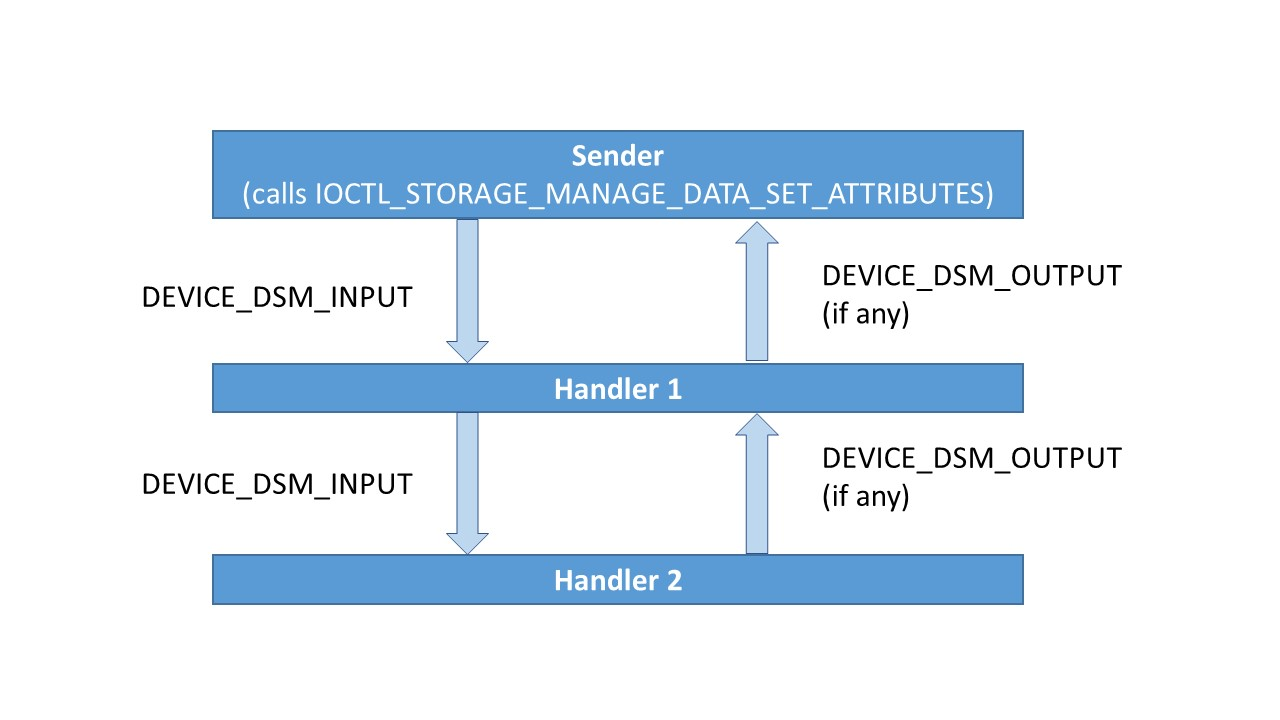
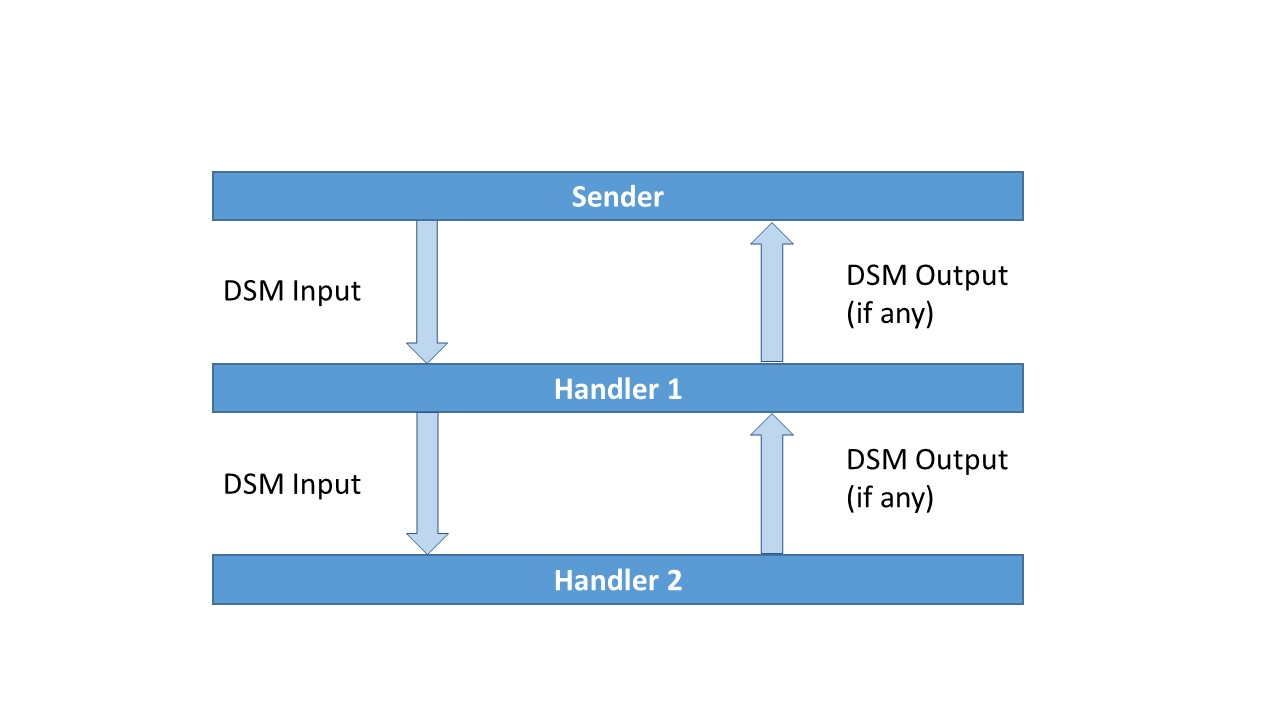
More DSM updates Another pass on conceptual pages Move DSM in toc Update images

Changed region(s): [[0.0938, 0.1833, 0.875, 0.5194], [0.5625, 0.5806, 0.875, 0.7639], [0.0938, 0.55, 0.375, 0.7639]]

diff --git a/windows-driver-docs-pr/storage/device-dsm-action-descriptions.md b/windows-driver-docs-pr/storage/device-dsm-action-descriptions.md
@@ -4,43 +4,41 @@ description: This page describes the DEVICE_DSM_ACTION constants that can be use
 ms.assetid: cc64c7ad-7d1c-45c7-b236-a43e57086f8d
 keywords: Storage Data Set Management Actions, Data Set Management Actions, DSM Actions
 ms.localizationpriority: medium
-ms.date: 08/15/2019
+ms.date: 08/20/2019
 ---
 
-# DEVICE_DSM_ACTION Definitions
+# DEVICE_DSM_ACTION Descriptions
 
-This page describes the DEVICE_DSM_ACTION constants that can be used to perform a data set management (DSM) action on a device's data-set attributes. See [Data Set Management Overview](data-set-management-overview.md) for information on how a DSM action is processed. The following diagram shows the structure of a DEVICE_DSM_ACTION constant, and the table below lists and describes each constant.
-
-![DEVICE_DSM_ACTION Constant](images/device_dsm_action_constant.jpg)
+This page describes the DEVICE_DSM_ACTION constants that can be used to perform a data set management (DSM) action on a device's data set. These constants are defined in *ntddstor.h*. See [Data Set Management Overview](data-set-management-overview.md) for information on how a DSM action is processed.
 
 | DEVICE_DSM_ACTION Constant | Description |
 | -------------------------- | ----------- |
 | **DeviceDsmAction_None** (0) | For structure initialization purposes only. |
 | **DeviceDsmAction_Trim** (1) | The driver will perform a trim operation. |
-| **DeviceDsmAction_Notification** (2 \| **DeviceDsmActionFlag_NonDestructive**) | The driver will perform a notification operation. For this action, the **ParameterBlockOffset** and **ParameterBlockLength** members of the [DEVICE_DSM_INPUT](https://docs.microsoft.com/windows-hardware/drivers/ddi/content/ntddstor/ns-ntddstor-_device_manage_data_set_attributes) structure specify the parameters of the notification operation. These parameters are formatted as a [DEVICE_DSM_NOTIFICATION_PARAMETERS](https://docs.microsoft.com/windows-hardware/drivers/ddi/content/ntddstor/ns-ntddstor-_device_dsm_notification_parameters) structure. Supported in Windows 7 and later versions of Windows. |
-| **DeviceDsmAction_OffloadRead** (3 \| **DeviceDsmActionFlag_NonDestructive**) | The driver performs an offload read operation. For this action, the **ParameterBlockOffset** and **ParameterBlockLength** members of the [DEVICE_DSM_INPUT](https://docs.microsoft.com/windows-hardware/drivers/ddi/content/ntddstor/ns-ntddstor-_device_manage_data_set_attributes) structure specify the parameters of the offload read operation. These parameters are formatted as a [DEVICE_DSM_OFFLOAD_READ_PARAMETERS](https://docs.microsoft.com/windows-hardware/drivers/ddi/content/ntddstor/ns-ntddstor-_device_dsm_offload_read_parameters) structure. Supported in Windows 8 and later versions of Windows. |
-| **DeviceDsmAction_OffloadWrite** (4) | The driver will perform an offload write operation. For this action, the **ParameterBlockOffset** and **ParameterBlockLength** members of the [DEVICE_DSM_INPUT](https://docs.microsoft.com/windows-hardware/drivers/ddi/content/ntddstor/ns-ntddstor-_device_manage_data_set_attributes) structure specify the parameters of the offload write operation. These parameters are formatted as a [DEVICE_DSM_OFFLOAD_WRITE_PARAMETERS](https://docs.microsoft.com/windows-hardware/drivers/ddi/content/ntddstor/ns-ntddstor-_device_dsm_offload_write_parameters) structure. Supported in Windows 8 and later versions of Windows. |
-| **DeviceDsmAction_Allocation** (5 \| **DeviceDsmActionFlag_NonDestructive**) | The driver will perform a logical block provisioning operation. The logical block range is specified in a single [DEVICE_DATA_SET_RANGE](https://docs.microsoft.com/windows-hardware/drivers/ddi/content/ntddstor/ns-ntddstor-_device_data_set_range) structure. Supported in Windows 8 and later versions of Windows. |
-| **DeviceDsmAction_Repair** (6 \| **DeviceDsmActionFlag_NonDestructive**) | The driver will perform a storage spaces repair operation. The logical block range is specified in a single [DEVICE_DATA_SET_RANGE](https://docs.microsoft.com/windows-hardware/drivers/ddi/content/ntddstor/ns-ntddstor-_device_data_set_range) structure. The number of repair copies is specified in a DEVICE_DATA_SET_REPAIR_PARAMETERS structure located in the input buffer as specified by the **ParameterBlockOffset** member of the [DEVICE_DSM_INPUT](https://docs.microsoft.com/windows-hardware/drivers/ddi/content/ntddstor/ns-ntddstor-_device_manage_data_set_attributes) structure. Supported in Windows 8 and later versions of Windows. |
-| **DeviceDsmAction_Scrub** (7 \| **DeviceDsmActionFlag_NonDestructive**) | The driver will perform a storage spaces scrub operation. The logical block range is specified in a single [DEVICE_DATA_SET_RANGE](https://docs.microsoft.com/windows-hardware/drivers/ddi/content/ntddstor/ns-ntddstor-_device_data_set_range) structure. Supported in Windows 8 and later versions of Windows. |
-| **DeviceDsmAction_DrtQuery** (8 \| **DeviceDsmActionFlag_NonDestructive**) | The driver will perform a query for the logical block range specified and checks if it is included in storage spaces dirty range tracking. The synchronization status of the range is returned in the **OperationStatus** member of the [DEVICE_DSM_INPUT_OUTPUT](https://docs.microsoft.com/windows-hardware/drivers/ddi/content/ntddstor/ns-ntddstor-_device_manage_data_set_attributes_output) structure. The logical block range is specified, on input, in a single [DEVICE_DATA_SET_RANGE](https://docs.microsoft.com/windows-hardware/drivers/ddi/content/ntddstor/ns-ntddstor-_device_data_set_range) structure. Supported in Windows 8 and later versions of Windows. |
-| **DeviceDsmAction_DrtClear** (9 \| **DeviceDsmActionFlag_NonDestructive**) | The driver will clear dirty range status for the for the logical block range specified. The logical block range is specified in a single [DEVICE_DATA_SET_RANGE](https://docs.microsoft.com/windows-hardware/drivers/ddi/content/ntddstor/ns-ntddstor-_device_data_set_range) structure. Supported in Windows 8 and later versions of Windows. |
-| **DeviceDsmAction_DrtDisable** (10 \| **DeviceDsmActionFlag_NonDestructive**) | The driver will disable dirty range tracking for the logical block range specified. The logical block range is specified in a single [DEVICE_DATA_SET_RANGE](https://docs.microsoft.com/windows-hardware/drivers/ddi/content/ntddstor/ns-ntddstor-_device_data_set_range) structure. Supported in Windows 8 and later versions of Windows. |
-| **DeviceDsmAction_TieringQuery** (11 \| **DeviceDsmActionFlag_NonDestructive**) |  |
-| **DeviceDsmAction_Map** (12 \| **DeviceDsmActionFlag_NonDestructive**) |  |
-| **DeviceDsmAction_RegenerateParity** (13 \| **DeviceDsmActionFlag_NonDestructive**) |  |
-| **DeviceDsmAction_NvCache_Change_Priority** (14 \| **DeviceDsmActionFlag_NonDestructive**) | The driver will change the caching priority of specified ranges of logical blocks. The new target priority is set in a [DEVICE_DSM_NVCACHE_CHANGE_PRIORITY_PARAMETERS](https://docs.microsoft.com/windows-hardware/drivers/ddi/content/ntddstor/ns-ntddstor-_device_dsm_nvcache_change_priority_parameters) structure which is located at **ParameterBlockOffset** in [DEVICE_DSM_INPUT](https://docs.microsoft.com/windows-hardware/drivers/ddi/content/ntddstor/ns-ntddstor-_device_manage_data_set_attributes). The logical block ranges to change priority for are given in one or more [DEVICE_DATA_SET_RANGE](https://docs.microsoft.com/windows-hardware/drivers/ddi/content/ntddstor/ns-ntddstor-_device_data_set_range) structures. Supported in Windows 8.1 and later versions of Windows. |
-| **DeviceDsmAction_NvCache_Evict** (15 \| **DeviceDsmActionFlag_NonDestructive**) | The driver will evict data from the caching medium. To evict all data, set the DEVICE_DSM_FLAG_ENTIRE_DATA_SET_RANGE flag in the **Flags** member of [DEVICE_DSM_INPUT](https://docs.microsoft.com/windows-hardware/drivers/ddi/content/ntddstor/ns-ntddstor-_device_manage_data_set_attributes) and do not include any [DEVICE_DATA_SET_RANGE](https://docs.microsoft.com/windows-hardware/drivers/ddi/content/ntddstor/ns-ntddstor-_device_data_set_range) structures. Specific logical block ranges to evict are given in one or more [DEVICE_DATA_SET_RANGE](https://docs.microsoft.com/windows-hardware/drivers/ddi/content/ntddstor/ns-ntddstor-_device_data_set_range) structures. The **DeviceDsmAction_NvCache_Evict** action is executed synchronously. No other actions are serviced until the evict action has either succeeded or failed. In order to limit its impact on applications using the device, each **DeviceDsmAction_NvCache_Evict** action issued should include relatively small data ranges. They should not exceed 10 MB and ideally be smaller than 2 MB. This will minimize the chance that user level applications will experience noticeable delays when accessing data on the device. Supported in Windows 8.1 and later versions of Windows. |
-| **DeviceDsmAction_TopologyIdQuery** (16 \| **DeviceDsmActionFlag_NonDestructive**) |  |
-| **DeviceDsmAction_GetPhysicalAddresses** (17 \| **DeviceDsmActionFlag_NonDestructive**) |  |
-| **DeviceDsmAction_ScopeRegen** (18 \| **DeviceDsmActionFlag_NonDestructive**) |  |
-| **DeviceDsmAction_ReportZones** (19 \| **DeviceDsmActionFlag_NonDestructive**) |  |
-| **DeviceDsmAction_OpenZone** (20 \| **DeviceDsmActionFlag_NonDestructive**) |  |
-| **DeviceDsmAction_FinishZone** (21 \| **DeviceDsmActionFlag_NonDestructive**) |  |
-| **DeviceDsmAction_CloseZone** (22 \| **DeviceDsmActionFlag_NonDestructive**) |  |
-| **DeviceDsmAction_ResetWritePointer** (23) |  |
-| **DeviceDsmAction_GetRangeErrorInfo** (24 \| **DeviceDsmActionFlag_NonDestructive**) |  |
-| **DeviceDsmAction_WriteZeroes** (25) |  |
-| **DeviceDsmAction_LostQuery** (26 \| **DeviceDsmActionFlag_NonDestructive**) |  |
-| **DeviceDsmAction_GetFreeSpace** (27 \| **DeviceDsmActionFlag_NonDestructive**) |  |
-| **DeviceDsmAction_ConversionQuery** (28 \| **DeviceDsmActionFlag_NonDestructive**) |  |
+| **DeviceDsmAction_Notification** (2 \| **DeviceDsmActionFlag_NonDestructive**) | The driver will perform a notification operation. For this action, the parameter block immediately following the [DEVICE_DSM_INPUT](https://docs.microsoft.com/windows-hardware/drivers/ddi/content/ntddstor/ns-ntddstor-_device_manage_data_set_attributes) structure is formatted as a [DEVICE_DSM_NOTIFICATION_PARAMETERS](https://docs.microsoft.com/windows-hardware/drivers/ddi/content/ntddstor/ns-ntddstor-_device_dsm_notification_parameters) structure. Supported in Windows 7 and later versions of Windows. |
+| **DeviceDsmAction_OffloadRead** (3 \| **DeviceDsmActionFlag_NonDestructive**) | The driver performs an offload read operation. For this action, the parameter block immediately following the [DEVICE_DSM_INPUT](https://docs.microsoft.com/windows-hardware/drivers/ddi/content/ntddstor/ns-ntddstor-_device_manage_data_set_attributes) structure is formatted as a [DEVICE_DSM_OFFLOAD_READ_PARAMETERS](https://docs.microsoft.com/windows-hardware/drivers/ddi/content/ntddstor/ns-ntddstor-_device_dsm_offload_read_parameters) structure. Supported in Windows 8 and later versions of Windows. |
+| **DeviceDsmAction_OffloadWrite** (4) | The driver will perform an offload write operation. For this action, the parameter block immediately following the [DEVICE_DSM_INPUT](https://docs.microsoft.com/windows-hardware/drivers/ddi/content/ntddstor/ns-ntddstor-_device_manage_data_set_attributes) structure is formatted as a [DEVICE_DSM_OFFLOAD_WRITE_PARAMETERS](https://docs.microsoft.com/windows-hardware/drivers/ddi/content/ntddstor/ns-ntddstor-_device_dsm_offload_write_parameters) structure. Supported in Windows 8 and later versions of Windows. |
+| **DeviceDsmAction_Allocation** (5 \| **DeviceDsmActionFlag_NonDestructive**) | The driver will perform a logical block provisioning operation. The logical block range is specified in a single [DEVICE_DSM_RANGE](https://docs.microsoft.com/windows-hardware/drivers/ddi/content/ntddstor/ns-ntddstor-_device_data_set_range) structure. Supported in Windows 8 and later versions of Windows. |
+| **DeviceDsmAction_Repair** (6 \| **DeviceDsmActionFlag_NonDestructive**) | For internal use only. |
+| **DeviceDsmAction_Scrub** (7 \| **DeviceDsmActionFlag_NonDestructive**) | For internal use only. |
+| **DeviceDsmAction_DrtQuery** (8 \| **DeviceDsmActionFlag_NonDestructive**) | For internal use only. |
+| **DeviceDsmAction_DrtClear** (9 \| **DeviceDsmActionFlag_NonDestructive**) | For internal use only. |
+| **DeviceDsmAction_DrtDisable** (10 \| **DeviceDsmActionFlag_NonDestructive**) | For internal use only. |
+| **DeviceDsmAction_TieringQuery** (11 \| **DeviceDsmActionFlag_NonDestructive**) | For internal use only. |
+| **DeviceDsmAction_Map** (12 \| **DeviceDsmActionFlag_NonDestructive**) | For internal use only. |
+| **DeviceDsmAction_RegenerateParity** (13 \| **DeviceDsmActionFlag_NonDestructive**) | For internal use only. |
+| **DeviceDsmAction_NvCache_Change_Priority** (14 \| **DeviceDsmActionFlag_NonDestructive**) | The driver will change the caching priority of specified ranges of logical blocks. The new target priority is set in a [DEVICE_DSM_NVCACHE_CHANGE_PRIORITY_PARAMETERS](https://docs.microsoft.com/windows-hardware/drivers/ddi/content/ntddstor/ns-ntddstor-_device_dsm_nvcache_change_priority_parameters) structure which is located in the parameter block immediately following the [DEVICE_DSM_INPUT](https://docs.microsoft.com/windows-hardware/drivers/ddi/content/ntddstor/ns-ntddstor-_device_manage_data_set_attributes) structure. The logical block ranges for which to change priority are given in one or more [DEVICE_DSM_RANGE](https://docs.microsoft.com/windows-hardware/drivers/ddi/content/ntddstor/ns-ntddstor-_device_data_set_range) structures. Supported in Windows 8.1 and later versions of Windows. |
+| **DeviceDsmAction_NvCache_Evict** (15 \| **DeviceDsmActionFlag_NonDestructive**) | The driver will evict data from the caching medium. To evict all data, set the DEVICE_DSM_FLAG_ENTIRE_DATA_SET_RANGE flag in the **Flags** member of [DEVICE_DSM_INPUT](https://docs.microsoft.com/windows-hardware/drivers/ddi/content/ntddstor/ns-ntddstor-_device_manage_data_set_attributes) and do not include any [DEVICE_DSM_RANGE](https://docs.microsoft.com/windows-hardware/drivers/ddi/content/ntddstor/ns-ntddstor-_device_data_set_range) structures. Specific logical block ranges to evict are given in one or more [DEVICE_DSM_RANGE](https://docs.microsoft.com/windows-hardware/drivers/ddi/content/ntddstor/ns-ntddstor-_device_data_set_range) structures. The **DeviceDsmAction_NvCache_Evict** action is executed synchronously. No other actions are serviced until the evict action has either succeeded or failed. In order to limit its impact on applications using the device, each **DeviceDsmAction_NvCache_Evict** action issued should include relatively small data ranges. They should not exceed 10 MB and ideally be smaller than 2 MB. This will minimize the chance that user level applications will experience noticeable delays when accessing data on the device. Supported in Windows 8.1 and later versions of Windows. |
+| **DeviceDsmAction_TopologyIdQuery** (16 \| **DeviceDsmActionFlag_NonDestructive**) | For internal use only. |
+| **DeviceDsmAction_GetPhysicalAddresses** (17 \| **DeviceDsmActionFlag_NonDestructive**) | The driver will return the physical address ranges that correspond to one or more logical block ranges. This action is only supported on persistent memory disks. The logical block ranges are specified as a series of [DEVICE_DSM_RANGE](https://docs.microsoft.com/windows-hardware/drivers/ddi/content/ntddstor/ns-ntddstor-_device_data_set_range) structures immediately following the DEVICE_DSM_INPUT structure. The output consists of a [DEVICE_DSM_OUTPUT](https://docs.microsoft.com/windows-hardware/drivers/ddi/content/ntddstor/ns-ntddstor-_device_manage_data_set_attributes_output) structure, followed by padding and then a [DEVICE_DSM_PHYSICAL_ADDRESSES_OUTPUT](https://docs.microsoft.com/windows-hardware/drivers/ddi/content/ntddstor/ns-ntddstor-_device_dsm_physical_addresses_output) structure with the physical address ranges requested in the output block. Each physical address range is returned in a [DEVICE_STORAGE_ADDRESS_RANGE](https://docs.microsoft.com/windows-hardware/drivers/ddi/content/ntddstor/ns-ntddstor-_device_storag_address_range) structure. If the output buffer isn’t large enough to hold all the data, the DSM returns STATUS_BUFFER_OVERFLOW and the **TotalNumberOfRanges** field of the DEVICE_DSM_PHYSICAL_ADDRESSES_OUTPUT structure contains the number of DEVICE_STORAGE_ADDRESS_RANGE elements needed to satisfy the request. Any physical address ranges that contain a memory error will have DEVICE_DSM_PHYSICAL_ADDRESS_HAS_MEMORY_ERROR as its address. Applications can map the returned physical address ranges to the input logical block ranges by keeping track of the length of each returned physical address range. Note that a single logical block range can correspond to many physical address ranges. If DEVICE_DSM_FLAG_PHYSICAL_ADDRESSES_OMIT_TOTAL_RANGES is set in the **Flags** field of the [DEVICE_DSM_INPUT](https://docs.microsoft.com/windows-hardware/drivers/ddi/content/ntddstor/ns-ntddstor-_device_manage_data_set_attributes) structure, then the driver will not compute **TotalNumberOfRanges**. This is a performance optimization for callers that don’t need to know the total number of ranges. |
+| **DeviceDsmAction_ScopeRegen** (18 \| **DeviceDsmActionFlag_NonDestructive**) | For internal use only. |
+| **DeviceDsmAction_ReportZones** (19 \| **DeviceDsmActionFlag_NonDestructive**) | For internal use only. |
+| **DeviceDsmAction_OpenZone** (20 \| **DeviceDsmActionFlag_NonDestructive**) | For internal use only. |
+| **DeviceDsmAction_FinishZone** (21 \| **DeviceDsmActionFlag_NonDestructive**) | For internal use only. |
+| **DeviceDsmAction_CloseZone** (22 \| **DeviceDsmActionFlag_NonDestructive**) | For internal use only. |
+| **DeviceDsmAction_ResetWritePointer** (23) | For internal use only. |
+| **DeviceDsmAction_GetRangeErrorInfo** (24 \| **DeviceDsmActionFlag_NonDestructive**) | The driver will return information about whether one or more logical block ranges contain any media errors. This is only supported on persistent memory disks. The logical block ranges are specified as a series of [DEVICE_DSM_RANGE](https://docs.microsoft.com/windows-hardware/drivers/ddi/content/ntddstor/ns-ntddstor-_device_data_set_range) structures immediately following the [DEVICE_DSM_INPUT](https://docs.microsoft.com/windows-hardware/drivers/ddi/content/ntddstor/ns-ntddstor-_device_manage_data_set_attributes) structure. The output consists of a [DEVICE_DSM_OUTPUT](https://docs.microsoft.com/windows-hardware/drivers/ddi/content/ntddstor/ns-ntddstor-_device_manage_data_set_attributes_output) structure, followed by padding and by a [DEVICE_DSM_RANGE_ERROR_OUTPUT](https://docs.microsoft.com/windows-hardware/drivers/ddi/content/ntddstor/ns-ntddstor-_device_dsm_range_error_output)) structure which holds an array of [DEVICE_STORAGE_RANGE_ATTRIBUTES](https://docs.microsoft.com/windows-hardware/drivers/ddi/content/ntddstor/ns-ntddstor-_device_storage_range_attributes). If the output buffer isn’t large enough to hold all the data, the DSM returns STATUS_BUFFER_OVERFLOW and the **TotalNumberOfRanges** field of the DEVICE_DSM_RANGE_ERROR_OUTPUT structure contains the number of DEVICE_STORAGE_RANGE_ATTRIBUTES elements needed to satisfy the request. Each DEVICE_STORAGE_RANGE_ATTRIBUTES structure contains an **IsRangeBad** field. The driver sets that field to 1 when the logical block range contains a media error. If there are no media errors in any of the requested ranges, the driver sets DEVICE_STORAGE_NO_ERRORS in the Flags field of DEVICE_DSM_RANGE_ERROR_OUTPUT. The elements of the DEVICE_STORAGE_RANGE_ATTRIBUTES array are sorted so that their order corresponds to the order of the input ranges. For example, if the first input range was broken into 3 output ranges, those will be the first 3 ranges in the array. The caller can learn which output ranges correspond to an input range by keeping track of the length of the output ranges. |
+| **DeviceDsmAction_WriteZeroes** (25) | For internal use only. |
+| **DeviceDsmAction_LostQuery** (26 \| **DeviceDsmActionFlag_NonDestructive**) | For internal use only. |
+| **DeviceDsmAction_GetFreeSpace** (27 \| **DeviceDsmActionFlag_NonDestructive**) | For internal use only. |
+| **DeviceDsmAction_ConversionQuery** (28 \| **DeviceDsmActionFlag_NonDestructive**) | For internal use only. |

diff --git a/windows-driver-docs-pr/storage/data-set-management-overview.md b/windows-driver-docs-pr/storage/data-set-management-overview.md
@@ -1,35 +1,51 @@
 ---
-title: Data Set Management Overview
+title: Data Set Management (DSM) Overview
 description: Management actions can be performed on a device's data-set attributes as data set management (DSM) actions.:"?ASQ
 ms.assetid: cc64c7ad-7d1c-45c7-b236-a43e57086f8d
 keywords: Storage Data Set Management Actions, Data Set Management Actions, DSM Actions
 ms.localizationpriority: medium
-ms.date: 08/15/2019
+ms.date: 08/20/2019
 ---
 
-# Data Set Management Overview
+# Data Set Management (DSM) Overview
 
-Management actions can be performed on a device's data-set attributes as data set management (DSM) actions. DSM actions are defined by Microsoft. This functionality is available starting with Windows 7.
+Starting with Windows 7, drivers can perform management actions on a device's data set. DSM actions are defined by Microsoft.
 
-Specifically, a DEVICE_DSM_ACTION constant, defined in *ntddstor.h*, is used to specify the action to perform along with any action-specific flags. See [DEVICE_DSM_ACTION Descriptions](device-dsm-action-descriptions.md) for descriptions of all DEVICE_DSM_ACTION constants.
-
-A DEVICE_DSM_ACTION constant is passed in the **Action** member of the [DEVICE_DSM_INPUT](https://docs.microsoft.com/windows-hardware/drivers/ddi/content/ntddstor/ns-ntddstor-_device_manage_data_set_attributes) structure contained in the system buffer of an [IOCTL_STORAGE_MANAGE_DATA_SET_ATTRIBUTES](https://docs.microsoft.com/windows-hardware/drivers/ddi/content/ntddstor/ni-ntddstor-ioctl_storage_manage_data_set_attributes) request. If the action requires additional parameters, a parameter block will immediately follow the DEVICE_DSM_INPUT structure. Data set ranges, if any, will immediately follow the parameter block. The system buffer structure is shown in the following diagram.
+A [DEVICE_DSM_ACTION](device-dsm-action-descriptions.md) constant specifies the action. This constant is passed in the **Action** member of the [DEVICE_DSM_INPUT](https://docs.microsoft.com/windows-hardware/drivers/ddi/content/ntddstor/ns-ntddstor-_device_manage_data_set_attributes) structure contained in the system buffer of an [IOCTL_STORAGE_MANAGE_DATA_SET_ATTRIBUTES](https://docs.microsoft.com/windows-hardware/drivers/ddi/content/ntddstor/ni-ntddstor-ioctl_storage_manage_data_set_attributes) request. If the action requires additional parameters, a parameter block will immediately follow the DEVICE_DSM_INPUT structure, and **ParameterBlockOffset** will specify the offset from the start of the DEVICE_DSM_INPUT structure at which the parameter block starts. Data set ranges, if any, will immediately follow the parameter block, and **DataSetRangesOffset** will specify the offset from the start of the DEVICE_DSM_INPUT structure at which the range(s) starts. The system buffer structure is shown in the following diagram.
 
 ![DSM IOCTL Input Buffer](images/dsm_ioctl_inputbuffer.jpg)
 
-Currently, the only defined action-specific flag is **DeviceDsmActionFlag_NonDestructive**. If this flag is bitwise **OR**'d with a DEVICE_DSM_ACTION constant, the specified action is nondestructive (no data will be altered). When **DeviceDsmActionFlag_NonDestructive** is set, the driver can safely forward the [IOCTL_STORAGE_MANAGE_DATA_SET_ATTRIBUTES](https://docs.microsoft.com/windows-hardware/drivers/ddi/content/ntddstor/ni-ntddstor-ioctl_storage_manage_data_set_attributes) request to the next lower driver in the stack even if the driver does not handle the specified action.
+If the management action will return output, a pointer to a [DEVICE_DSM_OUTPUT](https://docs.microsoft.com/windows-hardware/drivers/ddi/content/ntddstor/ns-ntddstor-_device_manage_data_set_attributes_output) structure is passed in the IOCTL's *OutputBuffer*. If the action will return additional action-specific output, an output block will immediately follow the DEVICE_DSM_OUTPUT structure, and **OutputBlockOffset** will specify the offset from the start of the DEVICE_DSM_OUTPUT structure at which the parameter block starts. The output buffer structure is shown in the following diagram.
 
-> [!NOTE]
-> Before it forwards the [IOCTL_STORAGE_MANAGE_DATA_SET_ATTRIBUTES](https://docs.microsoft.com/windows-hardware/drivers/ddi/content/ntddstor/ni-ntddstor-ioctl_storage_manage_data_set_attributes) request, the driver still performs the normal processing of the block of data set ranges that are specified in the [DEVICE_DSM_INPUT](https://docs.microsoft.com/windows-hardware/drivers/ddi/content/ntddstor/ns-ntddstor-_device_manage_data_set_attributes) structure. This block is located at **DataSetRangesOffset** and consists of one or more contiguous entries formatted as [DEVICE_DATA_SET_RANGE](https://docs.microsoft.com/windows-hardware/drivers/ddi/content/ntddstor/ns-ntddstor-_device_data_set_range) structures. The length, in bytes, of the data set ranges is set in the **DataSetRangesLength** member of DEVICE_DSM_INPUT.
+![DSM IOCTL Output Buffer](images/dsm_ioctl_outputbuffer.jpg)
 
-The process flow of a DSM action is shown in the following diagram, where *Sender* is the action requestor and *Handler* processes the requested action (there can be more than one *Handler* in the stack):
+The process flow of a DSM is described below, where *Sender* is the action requestor and *Handler* processes the requested action. Note that there can be more than one *Handler* in the stack.
 
 ![DSM Action Flow](images/dsm_action_flow.jpg)
 
-1) *Sender* allocates a [DEVICE_DSM_INPUT](https://docs.microsoft.com/windows-hardware/drivers/ddi/content/ntddstor/ns-ntddstor-_device_manage_data_set_attributes) structure, initializes it with the [DEVICE_DSM_ACTION](device-dsm-action-definitions/) to be performed, and provides any additional action-specific information as needed in the parameter block and ranges block.
-2) *Sender* sends an IOCTL_STORAGE_MANAGE_DATA_SET_ATTRIBUTES request, passing the initialized input data in the IOCTL's *InputBuffer*.
-3) *Handler* validates the input by calling [**DeviceDsmValidateInput**](https://docs.microsoft.com/windows-hardware/drivers/ddi/content/ntddstor/nf-ntddstor-devicedsmvalidateinput).
-4) If the input is valid, *Handler* unpacks the input and handles the DSM action.
-5) If the action requires output, *Handler* creates output and returns it.
-6) *Sender* validates the output by calling [**DeviceDsmValidateOutput**](https://docs.microsoft.com/windows-hardware/drivers/ddi/content/ntddstor/nf-ntddstor-devicedsmvalidateoutput).
-7) If the output is valid, *Sender* unpacks the output.
+1) *Sender* initializes the DSM and sends it to the first *Handler* in the stack by doing the following:
+
+   - Call [**DeviceDsmGetInputLength**](https://docs.microsoft.com/windows-hardware/drivers/ddi/content/ntddstor/nf-ntddstor-devicedsmgetinputlength) to determine the size of the entire input buffer, and then allocate memory for this buffer.
+   - Allocate and initialize a [DEVICE_DSM_DEFINITION](https://docs.microsoft.com/windows-hardware/drivers/ddi/content/ntddstor/ns-ntddstor-_device_dsm_definition) structure with the definition associated with the action.
+   - Call [**DeviceDsmInitializeInput**](https://docs.microsoft.com/en-us/windows-hardware/drivers/ddi/content/ntddstor/nf-ntddstor-devicedsminitializeinput) to initialize the [DSM_DEVICE_INPUT](https://docs.microsoft.com/windows-hardware/drivers/ddi/content/ntddstor/ns-ntddstor-_device_manage_data_set_attributes) structure and, if the action has parameters, the parameter block.
+   - If the action has ranges, call [**DeviceDsmAddDataSetRange**](https://docs.microsoft.com/en-us/windows-hardware/drivers/ddi/content/ntddstor/nf-ntddstor-devicedsmadddatasetrange) for each range to add [DEVICE_DSM_RANGE](https://docs.microsoft.com/en-us/windows-hardware/drivers/ddi/content/ntddstor/ns-ntddstor-_device_data_set_range) structure(s) to the input buffer.
+   - If the DSM has output, call [**DeviceDsmGetOutputLength**](https://docs.microsoft.com/en-us/windows-hardware/drivers/ddi/content/ntddstor/nf-ntddstor-devicedsmgetoutputlength) to determine the size of the entire output buffer, and then allocate memory for this buffer.
+   - Send an [IOCTL_STORAGE_MANAGE_DATA_SET_ATTRIBUTES](https://docs.microsoft.com/en-us/windows-hardware/drivers/ddi/content/ntddstor/ni-ntddstor-ioctl_storage_manage_data_set_attributes) request, passing the initialized input data in the IOCTL's system buffer, along with the allocated output buffer, if any.
+
+2) *Handler* handles the DSM IOCTL request in one of three ways:
+   1) Handle the request and return with output, if any.
+   2) Handle the request and forward it to the next lower driver in the stack.
+   3) Forward the request to the next lower driver in the stack without handling the DSM.
+
+   > [!NOTE]
+   > Regardless of whether the driver handles the DSM, it can safely forward the request *only if* DEVICE_DSM_ACTION's most significant bit (**DeviceDsmActionFlag_NonDestructive**) is set. If **DeviceDsmActionFlag_NonDestructive** is *not* set, the driver should instead return with an error.
+  
+   If *Handler* does handle the DSM, it performs the following steps:
+
+   - Validate the input by calling [**DeviceDsmValidateInput**](https://docs.microsoft.com/windows-hardware/drivers/ddi/content/ntddstor/nf-ntddstor-devicedsmvalidateinput).
+   - If the input is valid, *Handler* extracts the input to get the action. If the action has a parameter block, *Handler* calls [**DeviceDsmParameterBlock**](https://docs.microsoft.com/en-us/windows-hardware/drivers/ddi/content/ntddstor/nf-ntddstor-devicedsmparameterblock) to get the parameter block. If the action has range data, *Handler* calls [**DeviceDsmDataSetRanges**](https://docs.microsoft.com/en-us/windows-hardware/drivers/ddi/content/ntddstor/nf-ntddstor-devicedsmdatasetranges) to get a pointer to the block of data set ranges, and then performs the normal processing on the block. This block is located at **DataSetRangesOffset** and consists of one or more contiguous entries formatted as [DEVICE_DATA_SET_RANGE](https://docs.microsoft.com/windows-hardware/drivers/ddi/content/ntddstor/ns-ntddstor-_device_data_set_range) structures. The length, in bytes, of the data set ranges is set in the **DataSetRangesLength** member of [DEVICE_DSM_INPUT](https://docs.microsoft.com/windows-hardware/drivers/ddi/content/ntddstor/ns-ntddstor-_device_manage_data_set_attributes).
+   - If the action requires output, *Handler* initializes the [DEVICE_DSM_OUTPUT](https://docs.microsoft.com/windows-hardware/drivers/ddi/content/ntddstor/ns-ntddstor-_device_manage_data_set_attributes_output) portion of the output buffer by calling [**DeviceDsmInitializeOutput**](https://docs.microsoft.com/windows-hardware/drivers/ddi/content/ntddstor/nf-ntddstor-devicedsminitializeoutput), and populates the output block with action-specific output, if any. The *Handler* then completes the IOCTL and either returns or forwards the IOCTL to the next driver in the stack.
+
+3) Once the DSM is handled and returned to the *Sender*, the *Sender* validates the output, if any, by calling [**DeviceDsmValidateOutput**](https://docs.microsoft.com/windows-hardware/drivers/ddi/content/ntddstor/nf-ntddstor-devicedsmvalidateoutput). If the output is valid, *Sender* extracts the output block, if any, by calling [**DeviceDsmOutputBlock**](https://docs.microsoft.com/en-us/windows-hardware/drivers/ddi/content/ntddstor/nf-ntddstor-devicedsmoutputblock).
+
+For details on each specific DSM action, see [Device DSM Action Descriptions](device-dsm-action-descriptions.md).
